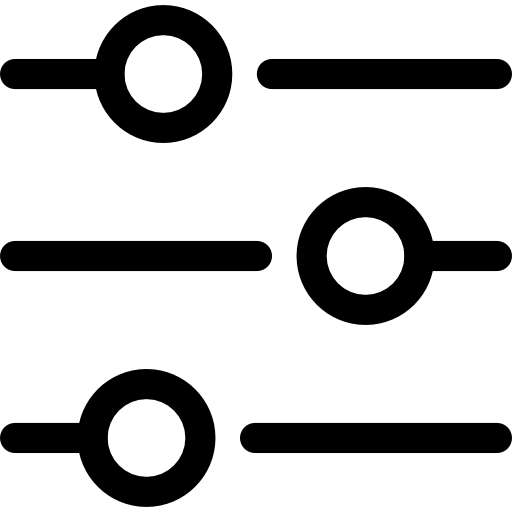
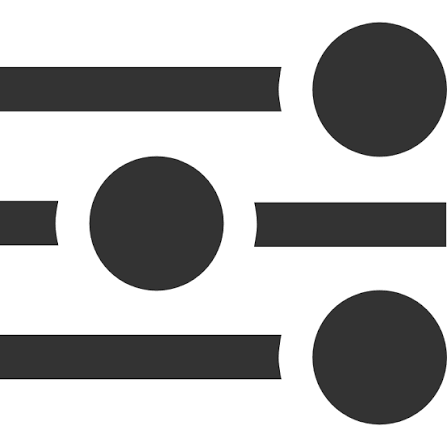
modified settings button and layout

diff --git a/Seeagle/seeagle.client/src/features/homepage/components/LeftPanel.tsx b/Seeagle/seeagle.client/src/features/homepage/components/LeftPanel.tsx
@@ -15,7 +15,7 @@ export function LeftPanel({ isAuthenticated = false }: LeftPanelProps) {
             {/*  Buton vizibil doar când panoul e ÎNCHIS, doar pe mobil */}
             {!isOpen && (
                 <button
-                    className="sm:hidden fixed top-4 left-4 z-[9999] w-10 h-10 rounded-full bg-white flex items-center justify-center  border-gray-200"
+                    className="sm:hidden fixed top-4 left-4 z-9999 w-10 h-10 rounded-full bg-white flex items-center justify-center  border-gray-200"
                     onClick={() => setIsOpen(true)}
                 >
                     ☰
@@ -24,7 +24,7 @@ export function LeftPanel({ isAuthenticated = false }: LeftPanelProps) {
 
             {/*  Panoul lateral */}
             <div className={`
-                fixed z-[9998] h-[100dvh]
+                fixed z-9998 h-dvh
                 bg-white p-4
                 flex flex-col 
                 transition-all duration-300 ease-in-out
@@ -88,20 +88,20 @@ export function LeftPanel({ isAuthenticated = false }: LeftPanelProps) {
                                     JD
                                 </div>
                                 <div className="hidden sm:block">
-                                    <p className="font-medium text-gray-800 text-xs">John Doe</p>
-                                    <p className="text-[10px] text-gray-400">[email redacted]</p>
+                                    <p className="font-medium text-gray-800 text-xs">Luciana Morar</p>
+                                    <p className="text-[10px] text-gray-400">[email redacted]</p>
                                 </div>
                             </div>
 
                             {/*  Buton Settings */}
                             <button
-                                className="w-8 h-8 rounded-full hover:bg-gray-100 transition flex items-center justify-center shrink-0"
+                                className="w-16 h-16 sm:w-13 sm:h-13 rounded-full hover:bg-gray-100 transition flex items-center justify-center shrink-0"
                                 onClick={() => console.log('Settings clicked')}
                             >
                                 <img
                                     src="/setting-lines.png"
                                     alt="Settings"
-                                    className="w-5 h-5 object-contain"
+                                    className="w-6 h-6 sm:w-7 sm:h-7 object-contain"
                                 />
                             </button>
                         </div>
@@ -112,7 +112,7 @@ export function LeftPanel({ isAuthenticated = false }: LeftPanelProps) {
             {/*  Overlay pentru mobil */}
             {isOpen && (
                 <div
-                    className="sm:hidden fixed inset-0 z-[9997] bg-black/30"
+                    className="sm:hidden fixed inset-0 z-9997 bg-black/30"
                     onClick={() => setIsOpen(false)}
                 />
             )}

diff --git a/Seeagle/seeagle.client/src/features/homepage/components/Homepage.tsx b/Seeagle/seeagle.client/src/features/homepage/components/Homepage.tsx
@@ -7,7 +7,7 @@ interface HomepageProps {
 
 export function Homepage({ isAuthenticated = false }: HomepageProps) {
     return (
-        <div className="relative h-[100dvh] w-screen overflow-hidden">
+        <div className="relative h-screen w-screen overflow-hidden">
             <LeftPanel isAuthenticated={isAuthenticated} />
             <Map />
         </div>

diff --git a/Seeagle/seeagle.client/src/features/homepage/components/Map.tsx b/Seeagle/seeagle.client/src/features/homepage/components/Map.tsx
@@ -44,7 +44,6 @@ function PinManager() {
             };
             setPins([...pins, newPin]);
             setNextId(nextId + 1);
-            console.log('Pin plasat la:', e.latlng.lat, e.latlng.lng);
         },
     });
 
@@ -52,7 +51,6 @@ function PinManager() {
         setPins(pins.map(pin =>
             pin.id === id ? { ...pin, position: newPosition } : pin
         ));
-        console.log('Pin mutat la:', newPosition);
     };
 
     return (